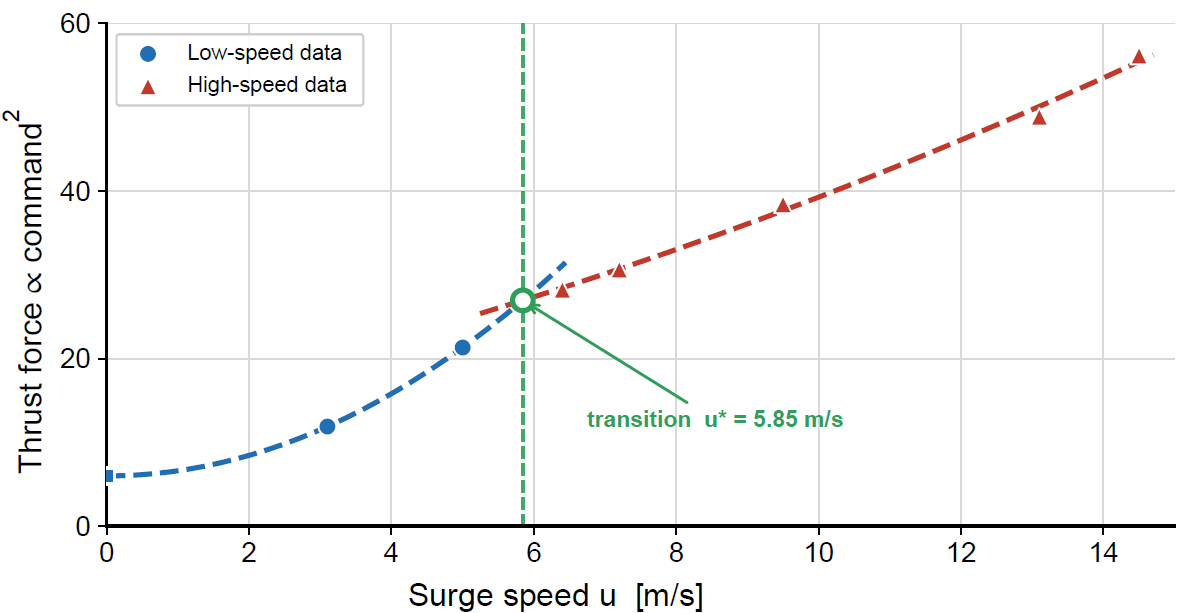
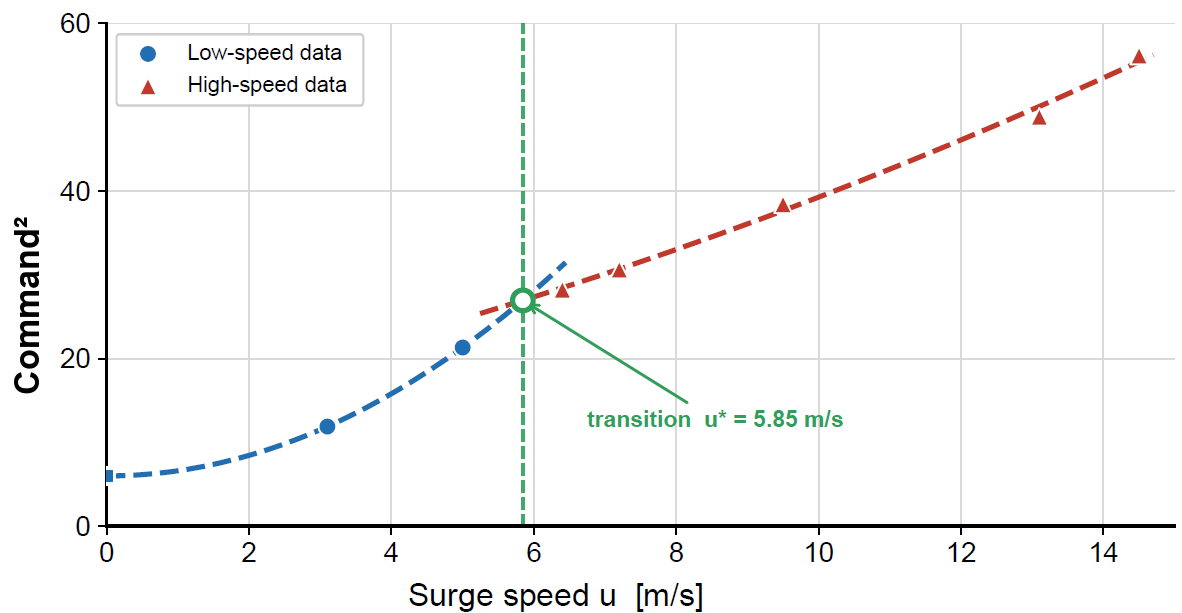
Rework highspeed page: platform video, speed emphasis, y-axis relabel
- Overview: remove the 48kn / <6m / u* stat cells
- Platform: replace hero photo with the additional-run sea-trial video
- Field Footage: add an emphasized 48 knots ~ 89 km/h ~ 24.7 m/s banner,
  keep the high-speed run clip
- Surge feedforward model: relabel y-axis to Command^2

Changed region(s): [[0.0, 0.186, 0.0609, 0.7749]]

diff --git a/index.html b/index.html
@@ -62,6 +62,9 @@
   .cell .num{font-size:1.7rem; font-weight:700; color:var(--accent); line-height:1.1}
   .cell .cap{font-size:.9rem; color:var(--muted); margin-top:4px}
   @media (max-width:640px){ .grid{grid-template-columns:1fr} h1{font-size:1.7rem} }
+  .speedbar{background:var(--accent-soft); border:1px solid var(--line); border-left:4px solid var(--accent);
+    border-radius:12px; padding:16px 20px; margin:0 0 26px; font-size:1rem; color:var(--muted)}
+  .speedbar .big{font-size:1.9rem; font-weight:800; color:var(--accent); margin-right:10px; letter-spacing:-.01em}
   ul.pts{margin:0; padding-left:20px}
   ul.pts li{margin:0 0 10px}
   footer{padding:34px 0 60px; text-align:center; color:var(--muted); font-size:.86rem}
@@ -96,11 +99,6 @@
         </p>
       </div>
 
-      <div class="grid" style="margin-top:34px">
-        <div class="cell"><div class="num">48 kn</div><div class="cap">Max speed &asymp; 88.9 km/h (24.7 m/s)</div></div>
-        <div class="cell"><div class="num">&lt; 6 m</div><div class="cap">LOS guidance path error</div></div>
-        <div class="cell"><div class="num">u* = 5.85</div><div class="cap">Low&ndash;high speed transition (m/s)</div></div>
-      </div>
     </div>
   </section>
 
@@ -109,8 +107,12 @@
       <h2>Platform</h2>
       <p class="lead">A planing-hull autonomous surface vehicle capable of high-speed operation.</p>
       <figure>
-        <div class="media"><img src="assets/asv_hero.jpg" alt="High-speed ASV, side view" /></div>
-        <figcaption><b>High-speed ASV (side view).</b> The sensorized planing hull used for the high-speed control trials.</figcaption>
+        <div class="media">
+          <video controls autoplay muted loop playsinline preload="metadata" poster="assets/highspeed_run2.jpg">
+            <source src="assets/highspeed_run2.mp4" type="video/mp4" />
+          </video>
+        </div>
+        <figcaption><b>High-speed ASV.</b> The sensorized planing hull used for the high-speed control trials, running under autonomous control during a sea trial.</figcaption>
       </figure>
     </div>
   </section>
@@ -140,6 +142,7 @@
     <div class="wrap">
       <h2>Field Footage</h2>
       <p class="lead">The ASV running at high speed during sea trials.</p>
+      <div class="speedbar"><span class="big">48 knots</span> &asymp; 89 km/h &asymp; 24.7 m/s &mdash; top speed reached under autonomous control</div>
       <div class="stack">
         <figure>
           <span class="vlabel">High-speed run</span>
@@ -150,16 +153,6 @@
             </video>
           </div>
           <figcaption>The ASV planing at high speed under autonomous control during a sea trial.</figcaption>
-        </figure>
-        <figure>
-          <span class="vlabel">Additional run</span>
-          <div class="media">
-            <video controls autoplay muted loop playsinline preload="metadata" poster="assets/highspeed_run2.jpg">
-              <source src="assets/highspeed_run2.mp4" type="video/mp4" />
-              Your browser does not support the video tag.
-            </video>
-          </div>
-          <figcaption>Further high-speed operation of the vehicle.</figcaption>
         </figure>
       </div>
     </div>
